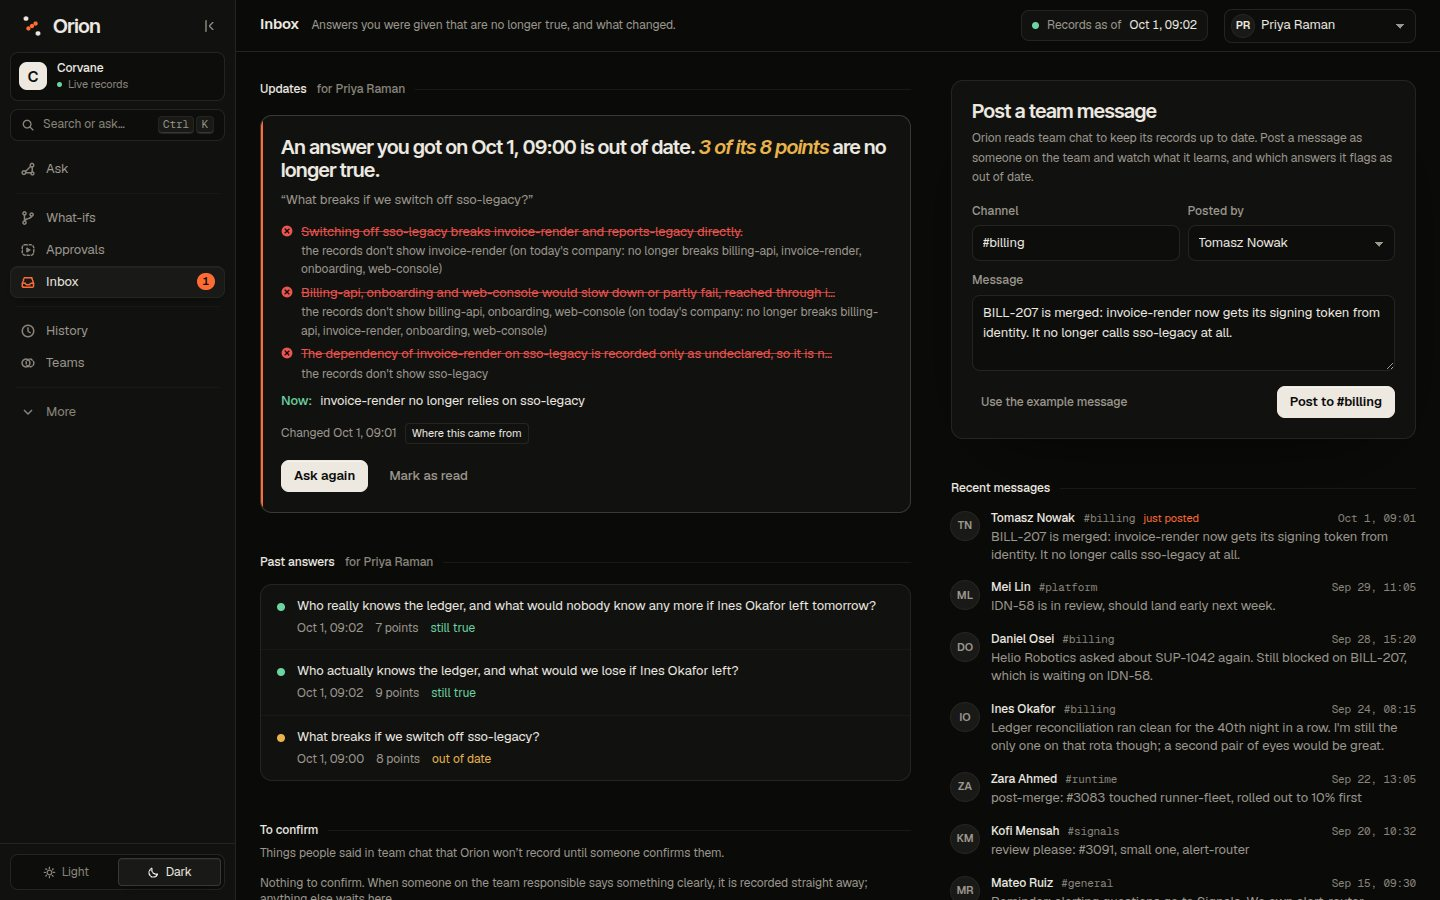
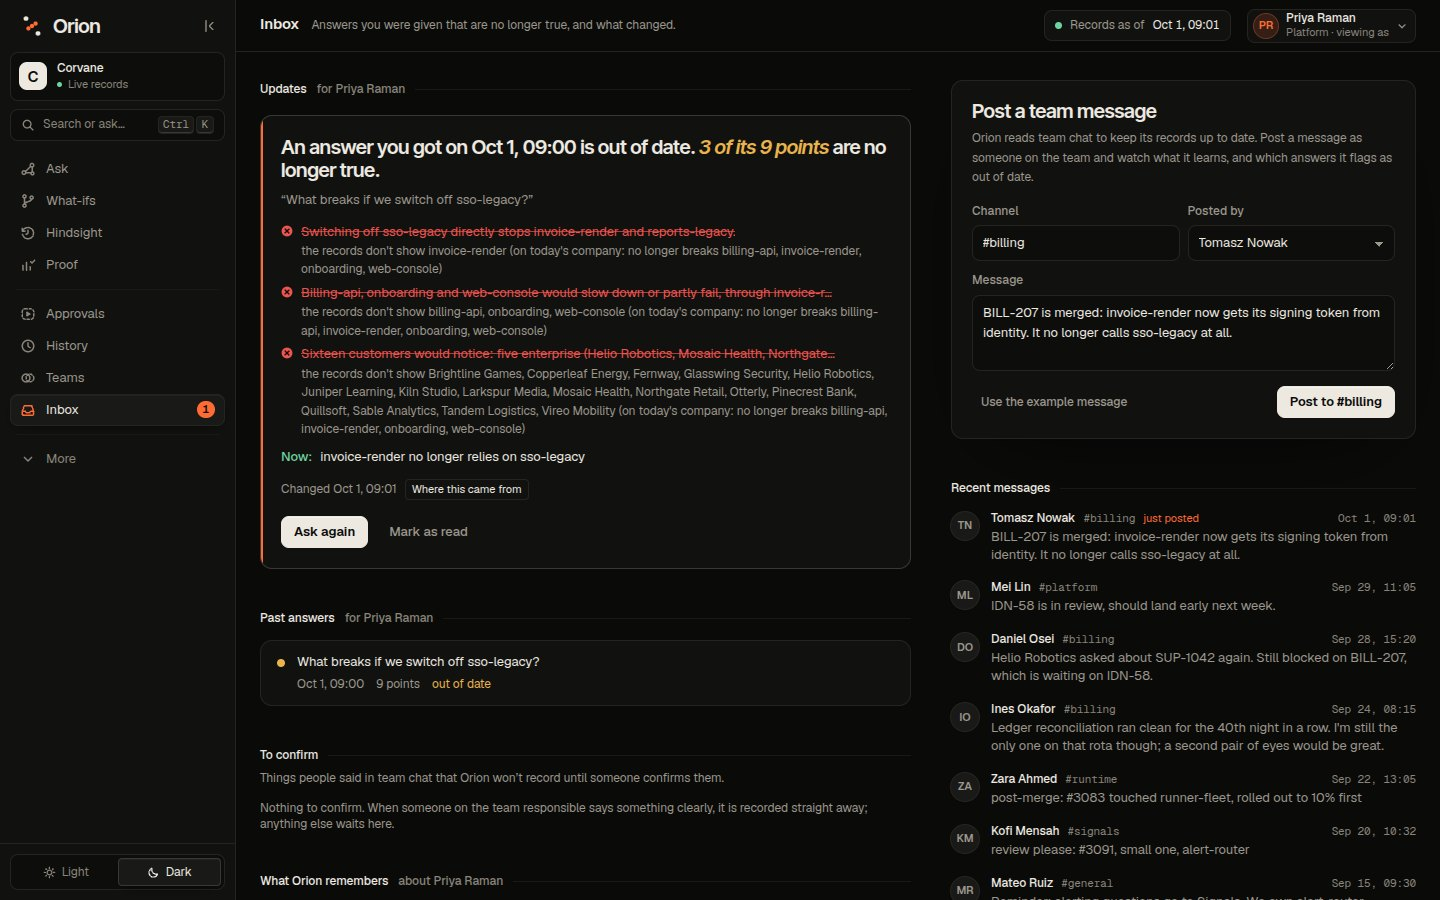
Blog post, fresh screenshots and a graph model diagram
Screenshots are retaken on a freshly reset demo, before Tomasz's message,
so they match what a visitor sees. The what-if's last column now counts
every customer who would notice, not only the ones it had room to draw,
and its header fits. Copy times in the docs are the measured median.

diff --git a/web/components/multiverse/BlastRadius.tsx b/web/components/multiverse/BlastRadius.tsx
@@ -210,7 +210,8 @@ export default function BlastRadius({
   const amber = C.undeclared;
   const nodeColor = (n: BNode) =>
     n.kind === "team" ? C.text : n.kind === "customer" ? C.partial : n.effect && n.effect !== "break" ? C.partial : red;
-  const customers = L.nodes.filter((n) => n.kind === "customer").length;
+  // every customer who would notice, including any the column had no room to draw
+  const customers = diff.customers?.length ?? 0;
   const header = ["Switched off", "Directly", "2 steps away", "3 steps away", "4+ steps away"];
 
   return (
@@ -226,7 +227,7 @@ export default function BlastRadius({
       {size === "full" &&
         Array.from({ length: L.last + 1 }, (_, c) => (
           <text key={c} x={g.pad + c * g.colW - g.r} y={14} fontSize={11} fill="var(--color-muted)" fontFamily="var(--font-sans)">
-            {c === L.last ? `Teams responsible${customers ? ` · ${customers} customer${customers === 1 ? "" : "s"}` : ""}` : header[c]}
+            {c === L.last ? (customers ? `Teams and ${customers} customer${customers === 1 ? "" : "s"}` : "Teams responsible") : header[c]}
           </text>
         ))}
       {L.edges.map((e) => {

diff --git a/docs/blog.md b/docs/blog.md
@@ -1,0 +1,286 @@
+---
+title: "The dependency nobody wrote down: forking a whole company in 60 ms with FalkorDB"
+subtitle: "Every question gets its own copy of the company. Here's how GRAPH.COPY made that cheap enough to do, and what broke along the way."
+tags: falkordb, graph-database, ai-agents, hackathon
+cover: https://raw.githubusercontent.com/Sumit99589/orion/main/docs/media/hindsight-cover.jpg
+---
+
+# The dependency nobody wrote down
+
+On 18 March, invoices stopped rendering for every one of Corvane's 16 customers.
+
+The cause had been approved fifteen days earlier. ADR-011 switched off `sso-legacy`, the old single sign-on service,
+and the announcement said every system in the service catalog had already moved off it. The catalog was wrong.
+`invoice-render` had been fetching its signing token from sso-legacy for 652 days, and the only people who knew were
+on Billing. Nobody asked them, because the catalog said there was nothing to ask about. Six days after the outage,
+Tomasz from Billing finally wrote it down in #billing while explaining what went wrong.
+
+Corvane is made up. But every engineer I've told this story to has their own version of it. The fact that would have
+stopped the mistake existed. It was in someone's head, or in a chat message, or in a ticket from last year. It just
+wasn't anywhere you'd look before approving the change.
+
+Could anyone have seen it coming on 3 March, with only what had been written down by then? I'll come back to that.
+
+I built **Orion** for the Graph Hacks hackathon. The pitch is one line: *see the company before you change it.*
+Before anyone switches off a system, loses a teammate or merges two teams, Orion copies the entire company into a
+parallel universe, makes the change there, and shows you what breaks.
+
+- Live: https://orion-gamma-six.vercel.app
+- Code: https://github.com/Sumit99589/orion
+
+![The Ask screen: every point in the answer checked against the records, and the one it couldn't confirm marked that way](https://raw.githubusercontent.com/Sumit99589/orion/main/docs/media/ask.jpg)
+
+## One graph for the company
+
+All of Corvane lives in one FalkorDB graph: 40 people, six teams, 26 services, 16 customers, plus the decisions,
+tickets, pull requests, chat messages and documents that connect them. Two years of history, generated from a fixed
+seed. Today's company is about 1,700 nodes and 5,000 relationships.
+
+![The graph model: the main labels, the validity on every fact, and the READ edges from claims](https://raw.githubusercontent.com/Sumit99589/orion/main/docs/media/graph-model.png)
+
+The first thing I had to get right was time. A company graph that only knows the present is useless for this,
+because the interesting questions are all "what did we know, and when". So every relationship that can stop being true
+carries four extra properties:
+
+| Property | Meaning |
+|---|---|
+| `valid_from`, `valid_to` | When it was true. `valid_to = '9999-12-31'` while it still is |
+| `recorded_at` | When the company found out |
+| `src` | The message, document, ticket or decision it came from |
+
+Nothing is ever deleted. A fact that stops being true gets closed, with a pointer to whatever closed it.
+
+The ghost dependency from the story looks like this in the graph: `(invoice-render)-[:DEPENDS_ON]->(sso-legacy)`,
+`valid_from: 2024-06-10`, `recorded_at: 2026-03-24`, and `src` pointing at Tomasz's message. That gap between
+`valid_from` and `recorded_at` is the whole incident, stored in one edge.
+
+With validity on every edge, "who owned billing-api last June" is just a `WHERE` clause. "Who's to blame for this
+fact" is following `src`. So far, so ordinary.
+
+## Why the copies are real copies
+
+Then I tried running graph algorithms on a past date and hit the problem that shaped the rest of the project.
+
+I lean on four of FalkorDB's algorithms: `algo.WCC` (weakly connected components, meaning which nodes can reach each
+other at all), `algo.betweenness`, `algo.pageRank` and `algo.labelPropagation`. You choose what they run over by node
+label and relationship type. You can't filter by property. The path-finding procedures do read properties, as weights
+and costs, so this isn't absolute. But none of the algorithms I needed can skip an edge because its `valid_to` has
+passed. Ask for the connected components of the dependency graph "as of last June", and a `DEPENDS_ON` edge that was
+closed in January still gets walked. You can't `WHERE` your way out of it.
+
+So I stopped trying to filter and started copying. An **epoch** is the company on a date, as its own graph:
+
+1. `GRAPH.COPY org:corvane epoch:corvane:2026-03-03:true`
+2. Delete every relationship that wasn't valid on that date.
+3. Delete every message, ticket and decision from after it, and rewind statuses (a decision superseded in April is
+   `accepted` again).
+4. Relabel people who'd already left as `:Former` and retired services as `:Retired`, so label filters skip them.
+5. Recompute the derived edges for that date: who `KNOWS` a service (three or more changes or reviews in the last 180
+   days), who `COLLABORATES` with whom (shared changes, decaying with a 90-day half-life).
+
+```cypher
+MATCH ()-[r]->() WHERE r.valid_from IS NOT NULL AND (r.valid_from > $d OR r.valid_to <= $d) DELETE r
+MATCH (s:Source) WHERE s.at > $d DETACH DELETE s
+```
+
+There's a second flavour, the `known` epoch. It also deletes facts with `recorded_at` after the date. The `true` epoch
+is what the company actually was on 3 March. The `known` epoch is what the company *could have known* on 3 March. Hold
+on to that one.
+
+Copying today's Corvane took a median of 62 ms over 20 runs on my desktop (51 to 79 ms). That number made everything
+else possible. If a copy took ten seconds, I'd have built some clever overlay system. At 60 ms, every question can
+just have its own company.
+
+## Universes: fork, change, compare
+
+A **universe** is a copy of today's epoch with a change applied physically. "Switch off sso-legacy" means the service
+gets `:Retired` and its edges go. "Ines leaves" means she becomes `:Former` and loses her `KNOWS` edges.
+
+Then Orion runs the same queries and algorithms on both graphs and diffs them. **What breaks** is a breadth-first walk
+up `DEPENDS_ON`, one indexed query per hop, keeping the worst effect at each service and a witness path so you can see
+why. Then come the customers who use something broken, the services nobody left `KNOWS`, the systems WCC says have lost
+every path back to a team, and the teams that have to agree. All of that rolls into a risk score from 0 to 100.
+
+Switching off sso-legacy today: risk 100. invoice-render and reports-legacy stop working; billing-api, onboarding and
+web-console slow down through invoice-render; Billing, Console, Data and Platform all have to sign off.
+
+![A what-if: what stops working, step by step, and who has to agree](https://raw.githubusercontent.com/Sumit99589/orion/main/docs/media/whatif.jpg)
+
+A universe can also be merged back. Nothing changes in the real records until every affected team approves. Then the
+universe's changes are replayed into the org graph as closed and opened facts, with the approved decision as their
+source. I wrote a property test for this, because it's easy to get subtly wrong: 30 random lists of changes, each one
+forked into a universe and also merged into the records and rebuilt, and the two compared all the way down to WCC
+components, betweenness, PageRank and impact. If they ever differ, the what-if was lying.
+
+## The safe path
+
+Telling someone "this will break five things" is half an answer. They want to know how to do it safely.
+
+So Orion searches for a plan. For every service that would break, it tries a fix: move it onto a replacement (a
+service a decision names alongside the retired one, or one its neighbours already moved to), or switch it off too if
+nothing depends on it. Every candidate plan is its own `GRAPH.COPY` with the plan applied, scored exactly like a
+what-if. A beam search keeps the four safest plans at each depth.
+
+```python
+g = f"scratch:{t}:{secrets.token_hex(4)}"
+db.copy(base, g)
+try:
+    opsm.apply_physical(db, g, resolved, "plan")
+    reach = uv.broken_in(db, g)
+    ...
+finally:
+    db.delete(g)
+```
+
+On Corvane it explores 16 parallel companies and comes back with three steps: move invoice-render onto identity,
+switch reports-legacy off as well, then switch off sso-legacy. Risk goes from 100 to 0. That takes about a second on my
+desktop and about ten on the free cloud instance, where the copies have to take turns (more on that below). One click
+sends the plan to the teams it touches.
+
+![The safe path: every company explored, the winning branch lit up](https://raw.githubusercontent.com/Sumit99589/orion/main/docs/media/safepath.jpg)
+
+Brute-forcing copies of an entire company sounds wasteful, and on paper it is. But the alternative was writing a
+second, incremental version of every query and algorithm that understands "pretend these edges are gone". That would
+have been a source of bugs where the planner and the what-if quietly disagree. With copies there's one scoring path.
+
+## Back to 3 March
+
+Here's where `true` against `known` pays off. For every incident, Orion finds the decision that led to it and tests
+that decision twice, on the day it was made:
+
+- On the `known` epoch for 3 March, what had been written down by then: **risk 26**. One old reporting system breaks.
+  ADR-011 looks fine. That's what the people approving it saw.
+- On the `true` epoch for 3 March, what was actually the case: **risk 100**. Five systems, all 16 customers.
+
+The difference between the two is exactly the facts on the breakage paths whose `recorded_at` is after the decision.
+Here that's one edge: invoice-render → sso-legacy, true since June 2024, written down six days after the outage. Orion
+shows you the message that finally recorded it.
+
+So, could anyone have seen it coming? Not from the records. Everything written down on 3 March said the change was
+safe. The blind spot was 74 points of risk wide, and it lived in one fact that only Billing had.
+
+Then Orion runs the safe path on that same day. Its first step is moving invoice-render onto identity, which is exactly
+the fix Billing filed after the outage as BILL-207. In Corvane's records that ticket is still open months later,
+waiting on an endpoint from Platform, and sso-legacy is still running because of it.
+
+![Hindsight: the decision, the incident, and the fact nobody had written down, to scale](https://raw.githubusercontent.com/Sumit99589/orion/main/docs/media/hindsight.jpg)
+
+I like this screen more than anything else in the project, because it's honest about what Orion can't do. If a fact
+was never written down anywhere, Orion can't see it either. What it can do is show you exactly how big that blind spot
+was, and where the knowledge eventually came from.
+
+## Does it actually help?
+
+One good story isn't evidence, so I wanted a number. Orion generates 29 questions from the graph itself, so each one has
+an answer the records settle: who actually knows a system, what it depends on at any depth, what breaks and how many,
+whether a decision still holds.
+
+The same model (Claude Haiku 5.5) answers each question twice. Once as Orion, with the graph tools. Once as a typical
+retrieval assistant, reading the 15 records that full-text search ranks highest for the question. Both are graded the
+same way.
+
+- **Orion: 28 of 29 correct (97%)**, with one made-up name across all its answers.
+- **Same model, reading records: 8 of 29 (28%)**, with 15 made-up names.
+
+Two caveats, and both favour Orion: the baseline is plain keyword search, not a tuned embedding pipeline, and the
+questions come from the graph, which is home ground for a graph tool. So read 97 against 28 as "these questions need
+a graph", not "retrieval is useless".
+
+The gap is widest on "who actually knows this system" (8 of 8 against 0 of 8) and "what does it depend on" (5 of 5
+against 0 of 5). Both are multi-hop questions, and no pile of retrieved documents answers them. On "what did we decide"
+questions the baseline got all six right too, which makes sense: a decision is usually written down in one place.
+Every question and both answers are on the Proof screen if you want to check my grading.
+
+![Proof: Orion against the same model reading the same records](https://raw.githubusercontent.com/Sumit99589/orion/main/docs/media/proof.jpg)
+
+## Answers that can be taken back
+
+Orion's assistant, the **Navigator**, answers by calling graph tools, the same traversals and algorithms as above,
+plus forking universes. Every read tool goes through `GRAPH.RO_QUERY`, so a confused model can't write to the company.
+
+Every sentence that states a fact has to come with a typed claim: `breaks`, `orphans`, `approvers`, `knows`, `owns`,
+`depends_on`, `decided`, `count` or `metric`. A separate **Verifier** runs each claim as a query and compares the exact
+set or number. "invoice-render and reports-legacy stop working" is a `breaks` claim with two services, checked against
+the universe. Two rules took a while to get right:
+
+- A name that matches nothing in the graph is **unsupported**, never "not true". Orion doesn't know it's false. It just
+  can't find it.
+- Anything said without a typed claim is only ever *judged* by a model, on the rows it cites, and it's labelled that
+  way.
+
+Then there's what happens after an answer is given. The Answer and its Claims go into the org graph. Each claim keeps
+the uids of the facts its evidence rested on, and gets a `READ` edge to every node it looked at:
+
+```
+(:Person)-[:ASKED]->(:Answer)-[:MAKES]->(:Claim {facts: [...]})-[:READ]->(:Service)
+```
+
+Now Tomasz posts in #billing: *"BILL-207 is merged: invoice-render now gets its signing token from identity. It no
+longer calls sso-legacy at all."*
+
+The **Cartographer** reads that message and proposes two changes of fact. The **Sentinel** decides whether to believe
+them. Tomasz is on Billing, and Billing owns invoice-render, so his word counts for 0.95. Someone from another team
+would get 0.65, and hedging ("I think...") multiplies by 0.7. High enough, and the Sentinel closes the old dependency
+and opens the new one, with the message as their source.
+
+Then one query finds every answer that relied on the closed fact:
+
+```cypher
+MATCH (a:Answer {status: 'fresh'})-[:MAKES]->(c:Claim)
+WHERE $fact_uid IN coalesce(c.facts, [])
+RETURN DISTINCT a.uid AS uid
+```
+
+Each one is re-checked by the graph, with no model call. Only claims whose check now fails change. Priya, who asked
+about sso-legacy earlier, gets an inbox note saying which of her points stopped being true and which message changed
+them. Switching off sso-legacy now only breaks reports-legacy: risk 26.
+
+![Inbox: an answer that stopped being true, and the message that changed it](https://raw.githubusercontent.com/Sumit99589/orion/main/docs/media/inbox.jpg)
+
+Most assistants give you an answer and forget about it. Orion keeps its answers, and so it knows when it has to take
+one back.
+
+The agents never call each other. They share a board that is its own graph: a what-if is a `:Task` node, and
+claiming one is a single write query, which FalkorDB serializes, so two workers can't both win it. Memory is a graph
+per person. Each turn in `mem:corvane:priya-raman` points at the nodes it was about, so when Priya asks about
+invoice-render a week later, her sso-legacy conversation comes back through a join on that node, not keyword luck.
+
+## Things that bit me
+
+**FalkorDB Cloud only lets you run graph commands.** Locally I'd been keeping small bits of state in plain Redis keys:
+tenant clocks, version counters, a cache, locks around universes. On the cloud instance those commands are refused. I
+moved all of it into an `orion:meta` graph: `KV` nodes with an optional expiry, and `Lock` nodes taken with a single
+`MERGE`. Since writes to a graph are serialized, counters and locks stayed atomic, and it ended up cleaner than the
+Redis version.
+
+**`GRAPH.COPY` on the cloud forks the server process, and refuses a second fork while one runs.** The safe path was
+making its copies in parallel, which worked fine on my laptop and failed on the deployed instance. Copies now take turns
+(the scoring on each copy still runs side by side), and a copy refused mid-fork is retried.
+
+**Round trips add up.** Against a local database, checking a dozen claims one after another is instant. Against a
+remote one, the latency adds up to seconds. The Verifier now checks claims side by side and caches the name resolver
+until the records change.
+
+**Free hosting sleeps.** The API runs on Render's free tier, which spins down after a while. A GitHub Action pings it
+every ten minutes, and if it's asleep anyway, the web app says "Waking the API, about a minute" with a counter instead
+of showing a broken screen.
+
+## Try it
+
+The live demo opens on a real answer Priya got about switching off sso-legacy, with every claim marked. **Start here**
+walks through the three moments in about two minutes: open the what-if and find the safe path, post Tomasz's message
+and watch the answer go stale, then replay INC-311.
+
+You can also point it at any public GitHub repository: contributors become people, folders become modules, CODEOWNERS
+entries become teams and imports become dependencies, so every screen works on real code too.
+
+- Live: https://orion-gamma-six.vercel.app
+- Code, setup and the full graph model: https://github.com/Sumit99589/orion
+
+The README covers running it locally (Docker, uv and Node) and the MCP server, which gives Claude Desktop or Cursor
+the same graph tools. An agent there can propose a change, but it can't approve its own.
+
+The thing I keep coming back to is how much of this came from one cheap operation. Once copying a whole company costs
+60 milliseconds, "what if" stops being a meeting and becomes a query.
+
+*I built Orion with Claude Code as my coding assistant; the README has the full AI-use disclosure.*

diff --git a/README.md b/README.md
@@ -94,7 +94,7 @@ Every screen is a query, a traversal or an algorithm over FalkorDB.
 
 | What | FalkorDB feature |
 |---|---|
-| A universe per question | `GRAPH.COPY` of today's company, then the change edits the copy in place (about 50 ms for Corvane's 1,700 nodes and 4,800 relationships) |
+| A universe per question | `GRAPH.COPY` of today's company, then the change edits the copy in place (a median of about 60 ms for Corvane's 1,700 nodes and 5,000 relationships) |
 | The company on any date | `GRAPH.COPY` of the bi-temporal org graph, pruned to the date; derived relationships recomputed for it |
 | Many graphs in one instance | `org:`, `epoch:`, `universe:`, `mem:` (one per person), `deck:` |
 | What breaks, at any depth | Breadth-first walk up `DEPENDS_ON`, one indexed query per hop, keeping the worst effect and a witness path |

diff --git a/docs/graph-model.md b/docs/graph-model.md
@@ -37,7 +37,7 @@ physically edited:
 - derived relationships are computed for that date (below).
 
 A universe is a copy of `epoch:now` edited the same way by the physical interpreter of each op. Copying Corvane
-(about 1,700 nodes and 4,800 relationships) takes about 40 milliseconds, so every question can have its own universe.
+(about 1,700 nodes and 5,000 relationships) takes a median of about 60 milliseconds, so every question can have its own universe.
 
 ## The company (`org:<tenant>`)
 
